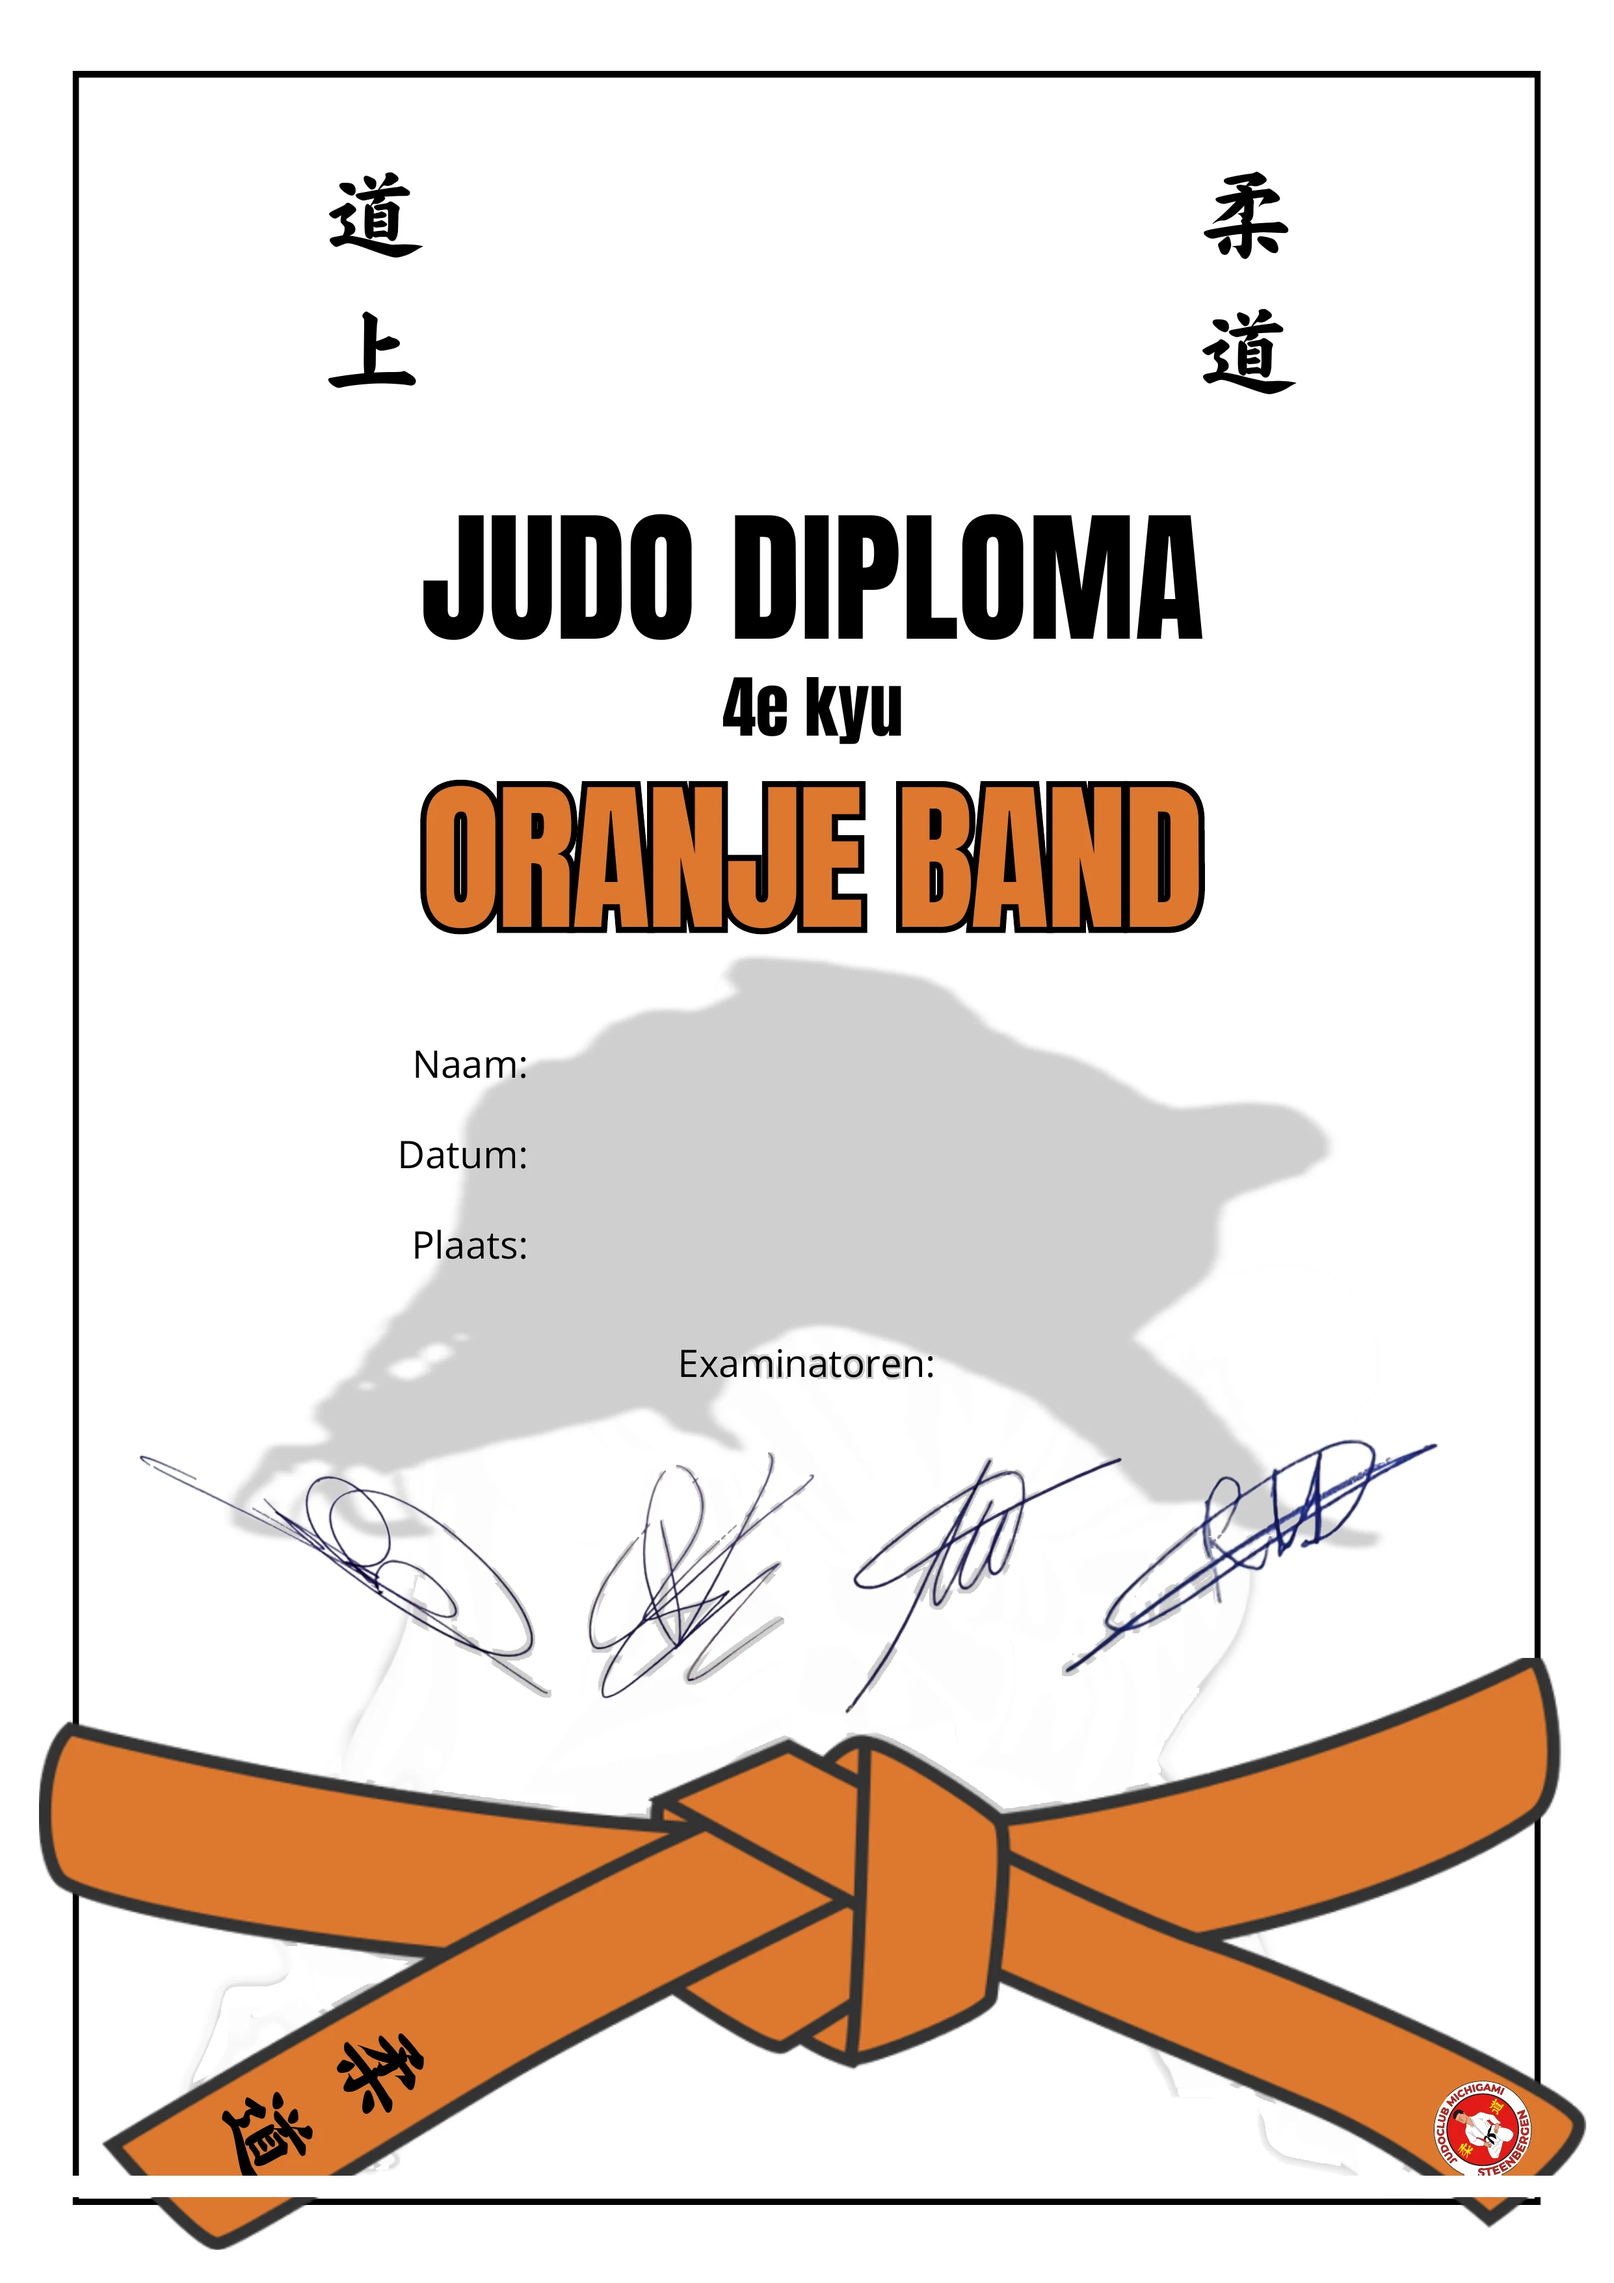
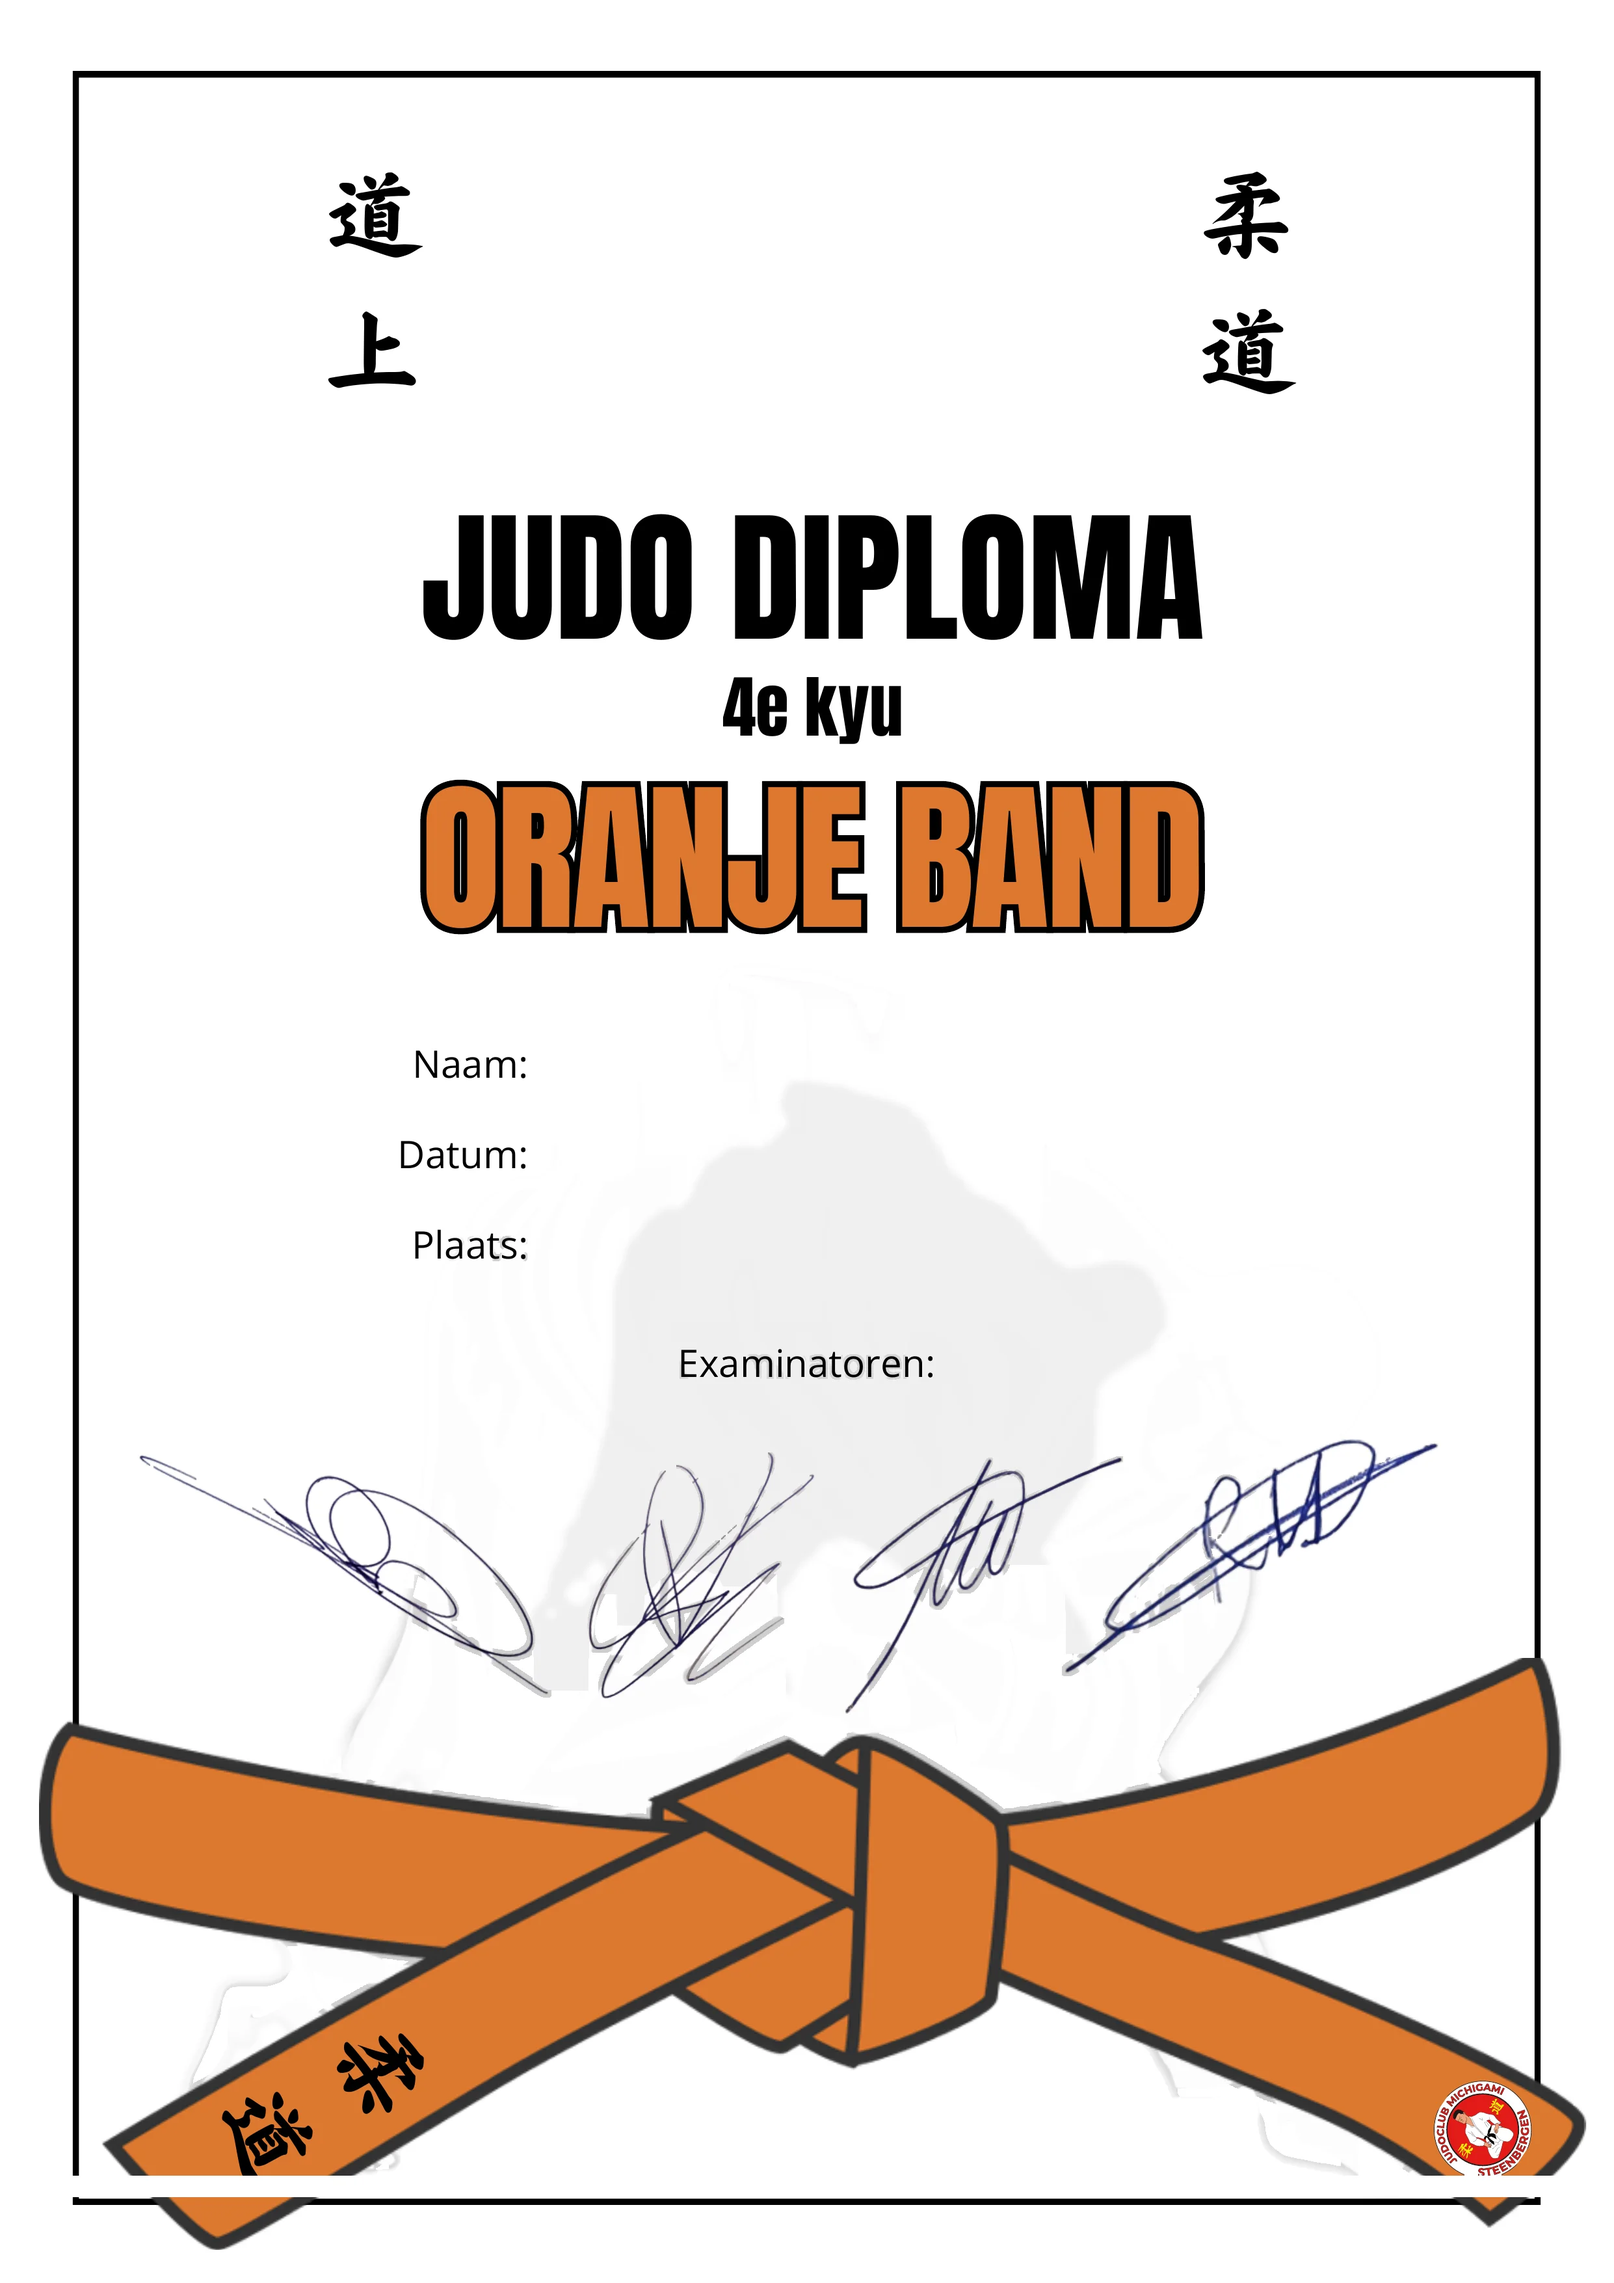
revert: watermerk terug naar bewaarde lichte vierkante versie, 2 mm rechts gecentreerd (obischaduw+rest-cleanup blijven)

Changed region(s): [[0.1241, 0.4037, 0.8687, 0.6832]]

diff --git a/public/sw.js b/public/sw.js
@@ -1,5 +1,5 @@
 /* PWA Service Worker — Judoclub Michigami */
-const CACHE_NAME = "michigami-v206-20261119";
+const CACHE_NAME = "michigami-v207-20261119";
 
 // Assets to pre-cache on install (critical for offline)
 const PRECACHE_URLS = [
